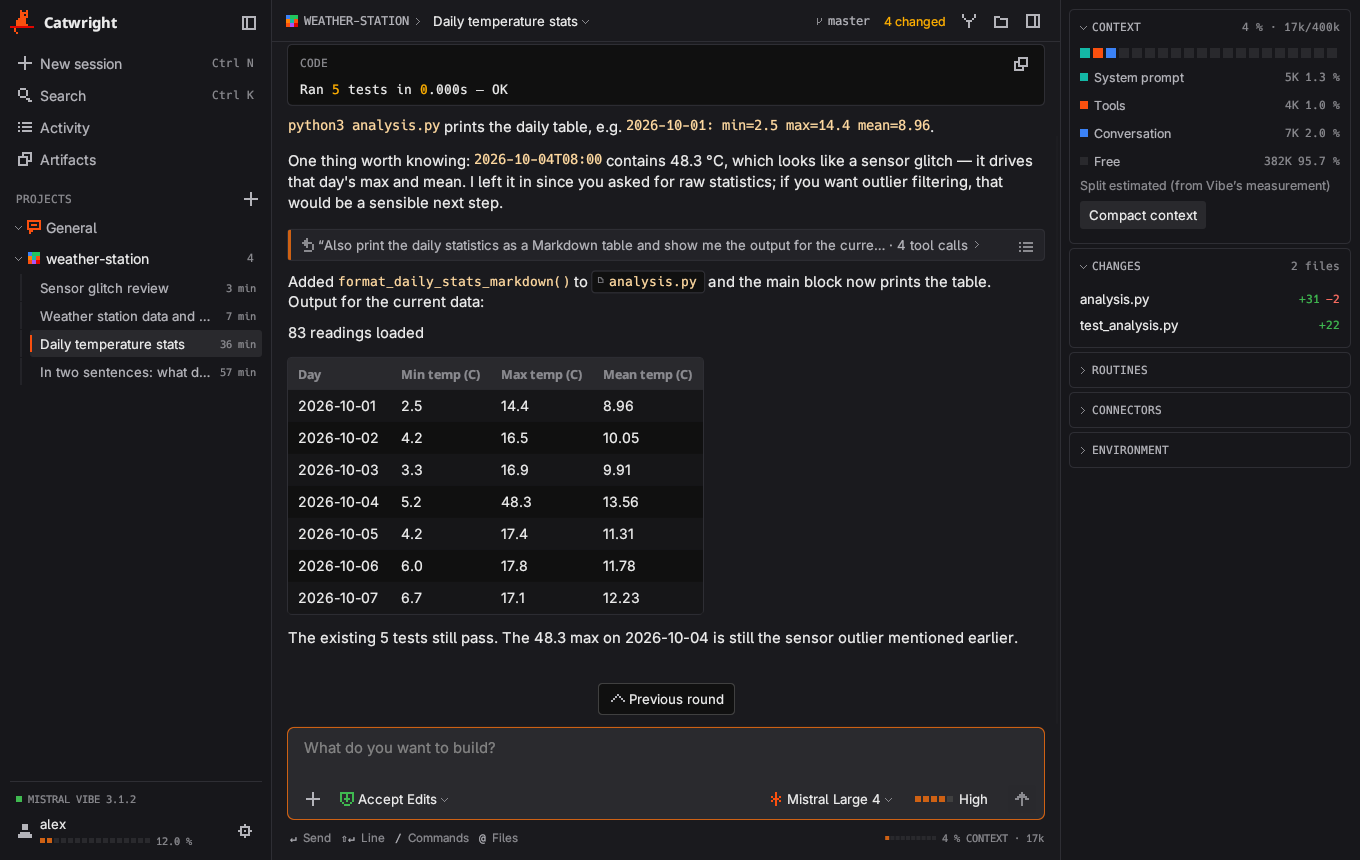
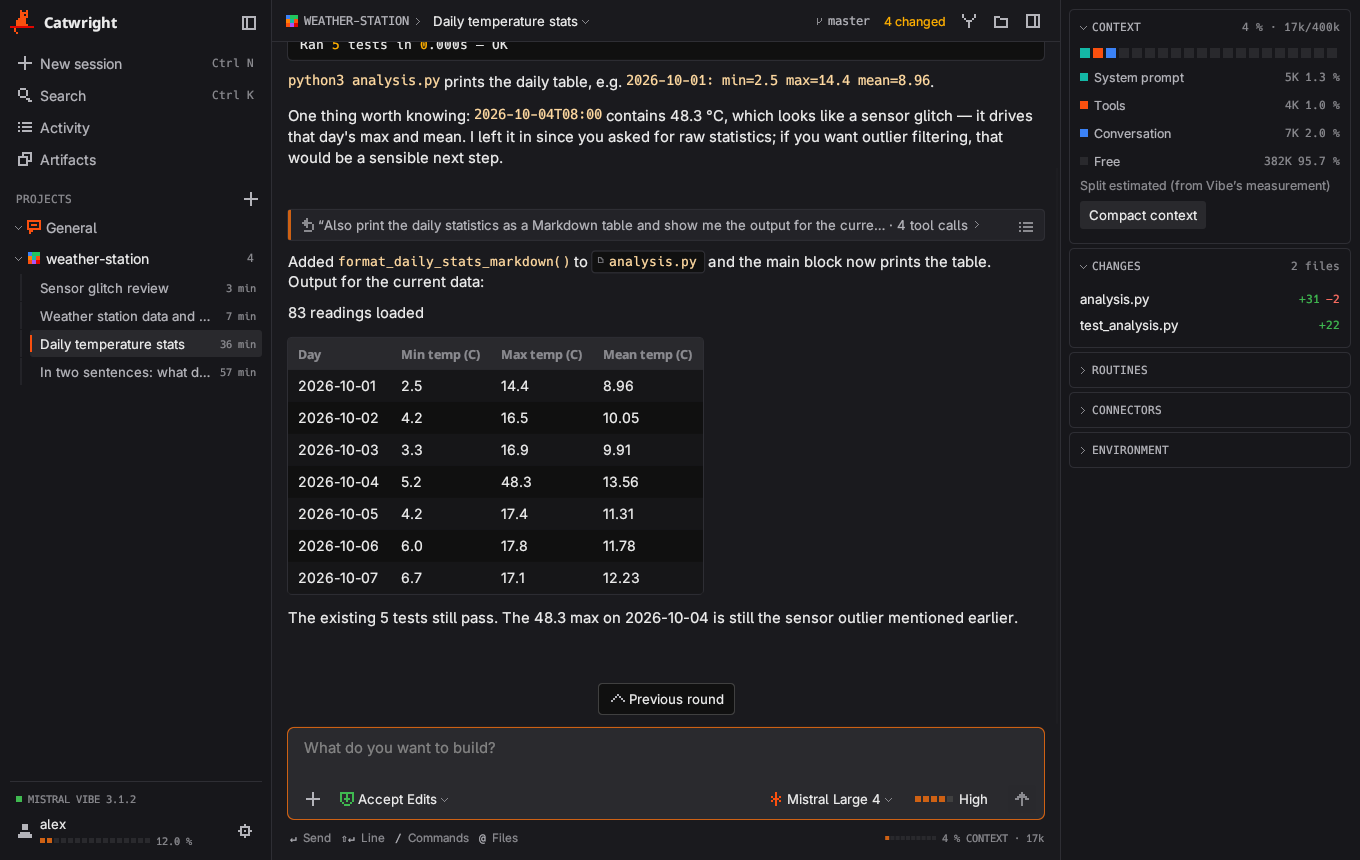
feat(transcript): answer actions sit under the answer
Copy and the speaker were in the top right corner of an answer, so a long
answer needed scrolling back up to reach them. They now sit right-aligned
in a row under the answer; the row is always reserved, so nothing jumps
when the buttons appear on hover. README screenshots re-rendered.

Changed region(s): [[0.2162, 0.0302, 0.7721, 0.7558], [0.7412, 0.0605, 0.7721, 0.0907]]

diff --git a/app/src/harness/ui/transcript.rs b/app/src/harness/ui/transcript.rs
@@ -1016,26 +1016,36 @@ pub(crate) struct SpeakerButton {
     pub pinned: bool,
 }
 
-/// Copy button in the top right corner of an agent answer while hovered, and
-/// left of it the speaker (with the setting on). Returns true when the
-/// speaker was clicked; the caller decides what that means.
+/// Height of the action row under every agent answer.
+const ANSWER_ACTIONS_H: f32 = 20.0;
+
+/// The action row under an agent answer: copy and, with the setting on, the
+/// speaker left of it, right-aligned at the END of the answer, so a long
+/// answer needs no scrolling back up. The row is always reserved (the
+/// buttons only show while the answer is hovered), so nothing below jumps
+/// when they appear; while the answer is read the speaker shows without
+/// hovering. Returns true when the speaker was clicked; the caller decides
+/// what that means.
 fn agent_actions(ui: &mut egui::Ui, top: f32, text: &str, speaker: Option<SpeakerButton>) -> bool {
-    let bottom = ui.cursor().top();
-    let right = ui.max_rect().right();
-    let body = Rect::from_min_max(pos2(ui.max_rect().left(), top), pos2(right, bottom));
+    let (row, _) = ui.allocate_exact_size(
+        vec2(ui.available_width(), ANSWER_ACTIONS_H),
+        egui::Sense::hover(),
+    );
+    let right = row.right();
+    let body = Rect::from_min_max(pos2(row.left(), top), pos2(right, row.bottom()));
     let hovered = ui.rect_contains_pointer(body);
+    let side = ANSWER_ACTIONS_H;
     let mut clicked = false;
     // The speaker keeps its place left of the copy button, so it does not
-    // jump away from the pointer when the hover actions appear; while the
-    // answer is read it is shown without hovering.
+    // jump away from the pointer when the hover actions appear.
     if let Some(speaker) = speaker {
         if hovered || speaker.pinned {
-            let r = Rect::from_min_size(pos2(right - 44.0, top), vec2(22.0, 22.0));
+            let r = Rect::from_min_size(pos2(right - 2.0 * side, row.top()), vec2(side, side));
             if widgets::place(
                 ui,
                 r,
                 IconButton::new(speaker.icon, speaker.tooltip)
-                    .side(22.0)
+                    .side(side)
                     .color(speaker.color)
                     .fill(theme::BG),
             )
@@ -1046,12 +1056,12 @@ fn agent_actions(ui: &mut egui::Ui, top: f32, text: &str, speaker: Option<Speake
         }
     }
     if hovered {
-        let r = Rect::from_min_size(pos2(right - 22.0, top), vec2(22.0, 22.0));
+        let r = Rect::from_min_size(pos2(right - side, row.top()), vec2(side, side));
         if widgets::place(
             ui,
             r,
             IconButton::new(Icon::Copy, tr("Copy answer"))
-                .side(22.0)
+                .side(side)
                 .fill(theme::BG),
         )
         .clicked()

diff --git a/CHANGELOG.md b/CHANGELOG.md
@@ -11,6 +11,8 @@ tag (`## v0.2.0`) as that release's description.
 - Read answers aloud (Settings → General): a speaker button on Vibe's answers
   has Vibe summarise and speak the answer, and an option reads every finished
   answer automatically.
+- The copy button of an answer (and the speaker) sit under the answer, at
+  its end: a long answer no longer needs scrolling back up.
 
 ## v0.4.0
 
